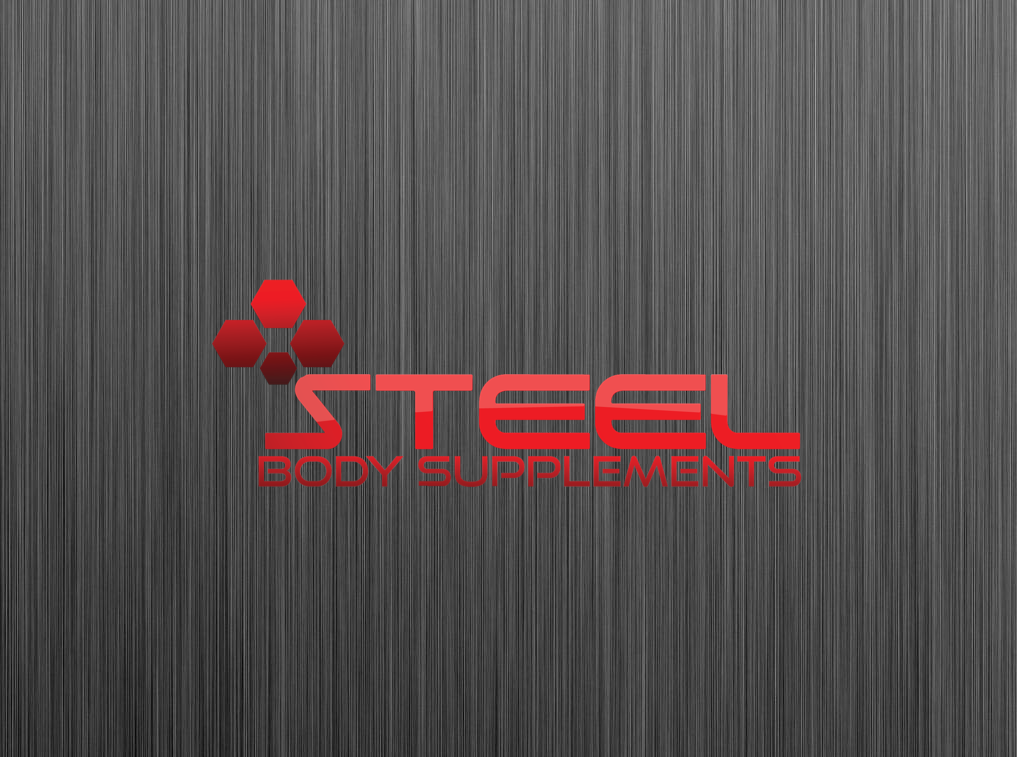
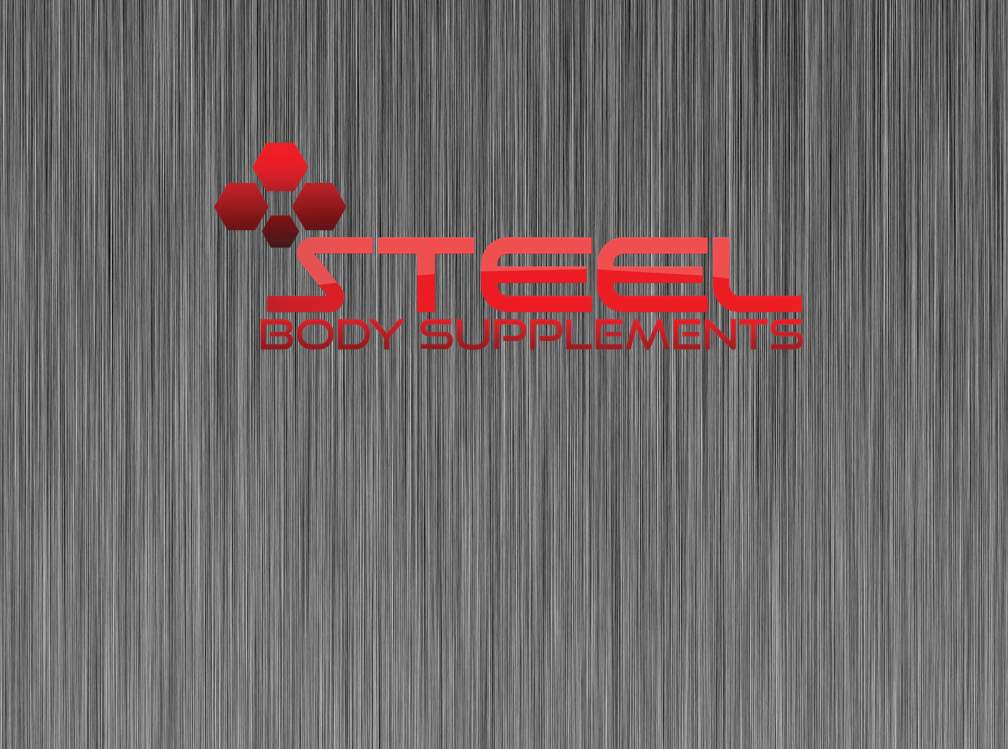
push

diff --git a/public/css/style.css b/public/css/style.css
@@ -15508,7 +15508,7 @@ a[data-toggle="tooltip"]:hover {
 .heading-container.heading-single .heading-background .heading-wrap {
   z-index: 2;
   padding: 0;
-  height: 400px;
+  height: 200px;
   position: static;
 }
 .single-portfolio .heading-container.heading-single .heading-background .heading-wrap {
